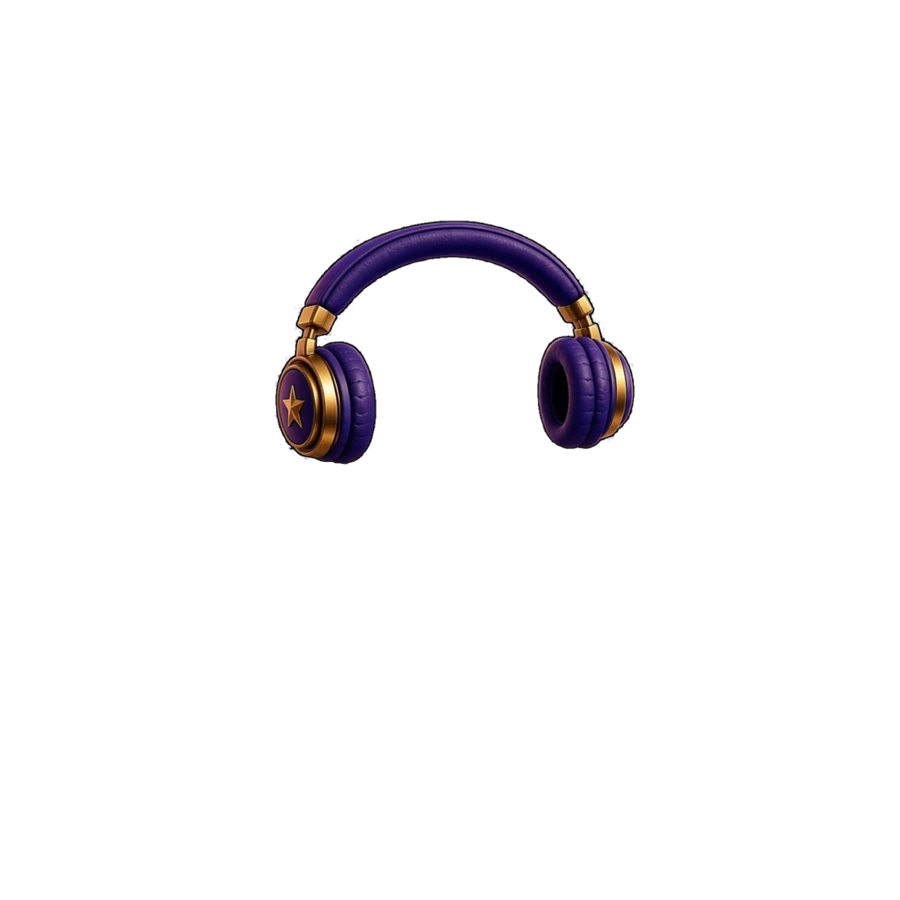
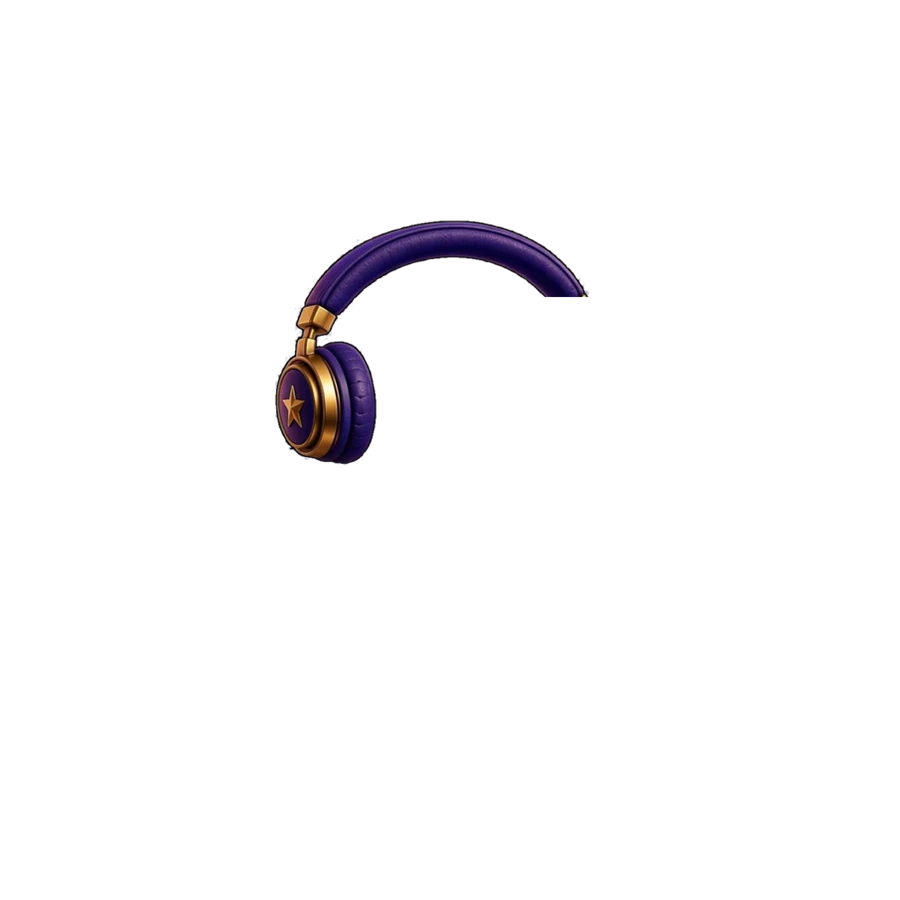
Hide the far ear cup behind the ghost, and shift the hat left
The owner spotted it: the ghost is turned slightly, so the far cup belongs
behind his head, not lying across his eye. He guessed it could not be done
with layers - it can, because every stage image is fully opaque, so anything
drawn under the ghost is honestly hidden by his body.

So an item can now carry a second picture, overlayBehind, that goes below
the ghost while the front half stays above. The headphone sprite was cut in
two along the far cup. Both halves share one scale and one shift, or the
halves would drift apart on the smaller stages.

Hat moved further left at his call - he was right the first two times as
well, the tip and the star pull the eye that way.

Changed region(s): [[0.5911, 0.3111, 0.7156, 0.4978]]

diff --git a/client/src/game/wardrobe.ts b/client/src/game/wardrobe.ts
@@ -169,21 +169,33 @@ export const seedEquippedFromInventory = (inventory: string[]): Equipped => {
 export const getWornOverlays = (
   equipped: Equipped,
   stage: PetStage
-): WornOverlay[] =>
-  getWornItems(equipped)
-    .filter((item): item is ShopItem & { overlay: string } => Boolean(item.overlay))
-    .map((item) => {
-      const onHead = HEAD_SLOTS.includes(item.slot);
-      const fit = onHead ? HEAD_FIT_BY_STAGE[stage.fromLevel] ?? NO_FIT : NO_FIT;
+): WornOverlay[] => {
+  const overlays: WornOverlay[] = [];
 
-      return {
-        itemId: item.id,
-        src: item.overlay,
-        layer: getClothingSlot(item.slot).layer,
-        scale: fit.scale,
-        dxPercent: fit.dx / CLOTHING_FRAME,
-        dyPercent: fit.dy / CLOTHING_FRAME,
-        transformOrigin: onHead ? HEAD_ORIGIN : "50% 50%",
-      };
-    })
-    .sort((a, b) => a.layer - b.layer);
+  for (const item of getWornItems(equipped)) {
+    const onHead = HEAD_SLOTS.includes(item.slot);
+    const fit = onHead ? HEAD_FIT_BY_STAGE[stage.fromLevel] ?? NO_FIT : NO_FIT;
+
+    const place = (id: string, src: string, layer: number): WornOverlay => ({
+      itemId: id,
+      src,
+      layer,
+      scale: fit.scale,
+      dxPercent: fit.dx / CLOTHING_FRAME,
+      dyPercent: fit.dy / CLOTHING_FRAME,
+      transformOrigin: onHead ? HEAD_ORIGIN : "50% 50%",
+    });
+
+    // Задняя часть вещи идёт на слой 0 — под призрака. Двигается и
+    // масштабируется вместе с передней, иначе половинки разъедутся.
+    if (item.overlayBehind) {
+      overlays.push(place(`${item.id}-back`, item.overlayBehind, 0));
+    }
+
+    if (item.overlay) {
+      overlays.push(place(item.id, item.overlay, getClothingSlot(item.slot).layer));
+    }
+  }
+
+  return overlays.sort((a, b) => a.layer - b.layer);
+};

diff --git a/client/src/lib/shop-config.ts b/client/src/lib/shop-config.ts
@@ -1,6 +1,7 @@
 import glassesOverlay from "@/assets/mascot/item-glasses.webp";
 import hatOverlay from "@/assets/mascot/item-hat.webp";
 import headphonesOverlay from "@/assets/mascot/item-headphones.webp";
+import headphonesBehind from "@/assets/mascot/item-headphones-back.webp";
 import {
   Crown,
   Gamepad2,
@@ -98,6 +99,11 @@ export type ShopItem = {
   // и сюда overlay: hatOverlay. Пока картинки нет — поле пустое:
   // вещь покупается и надевается, просто пока не видна на призраке.
   overlay?: string;
+  // Часть вещи, которая уходит ЗА призрака. Голова у него чуть повёрнута,
+  // поэтому дальняя чашка наушников должна прятаться за затылком, а не лежать
+  // на глазу. Картинки призрака непрозрачные, так что слой ниже него честно
+  // скрывает всё, что попало на тело.
+  overlayBehind?: string;
   // Дорогая вещь «на потом»: помечается в магазине и стоит заметно больше.
   legendary?: boolean;
 };
@@ -108,7 +114,7 @@ export type ShopItem = {
 export const SHOP_ITEMS: ShopItem[] = [
   { id: "item5", name: "Стильные очки", cost: 80, slot: "face", overlay: glassesOverlay, icon: Glasses, color: "text-sky-500", bg: "bg-sky-100" },
   { id: "item1", name: "Волшебная шляпа", cost: 150, slot: "head", overlay: hatOverlay, icon: Crown, color: "text-purple-500", bg: "bg-purple-100" },
-  { id: "item6", name: "Наушники", cost: 220, slot: "ears", overlay: headphonesOverlay, icon: Headphones, color: "text-emerald-500", bg: "bg-emerald-100" },
+  { id: "item6", name: "Наушники", cost: 220, slot: "ears", overlay: headphonesOverlay, overlayBehind: headphonesBehind, icon: Headphones, color: "text-emerald-500", bg: "bg-emerald-100" },
   { id: "item2", name: "Зелье скорости", cost: 300, slot: "hand", icon: Zap, color: "text-blue-500", bg: "bg-blue-100" },
   { id: "item7", name: "Палитра художника", cost: 380, slot: "hand", icon: Palette, color: "text-pink-500", bg: "bg-pink-100" },
   { id: "item3", name: "Золотая клавиатура", cost: 480, slot: "hand", icon: Keyboard, color: "text-yellow-500", bg: "bg-yellow-100" },